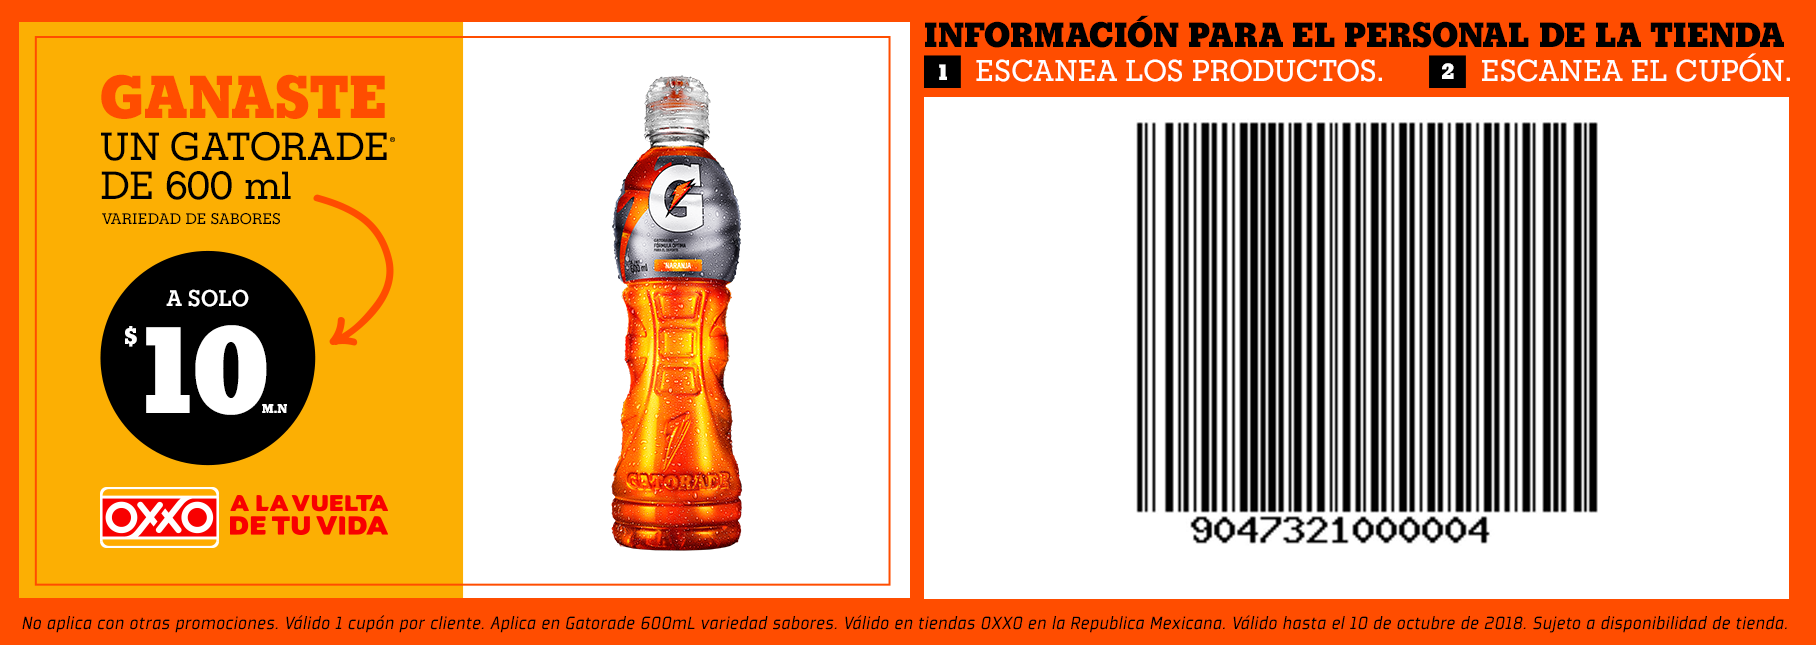
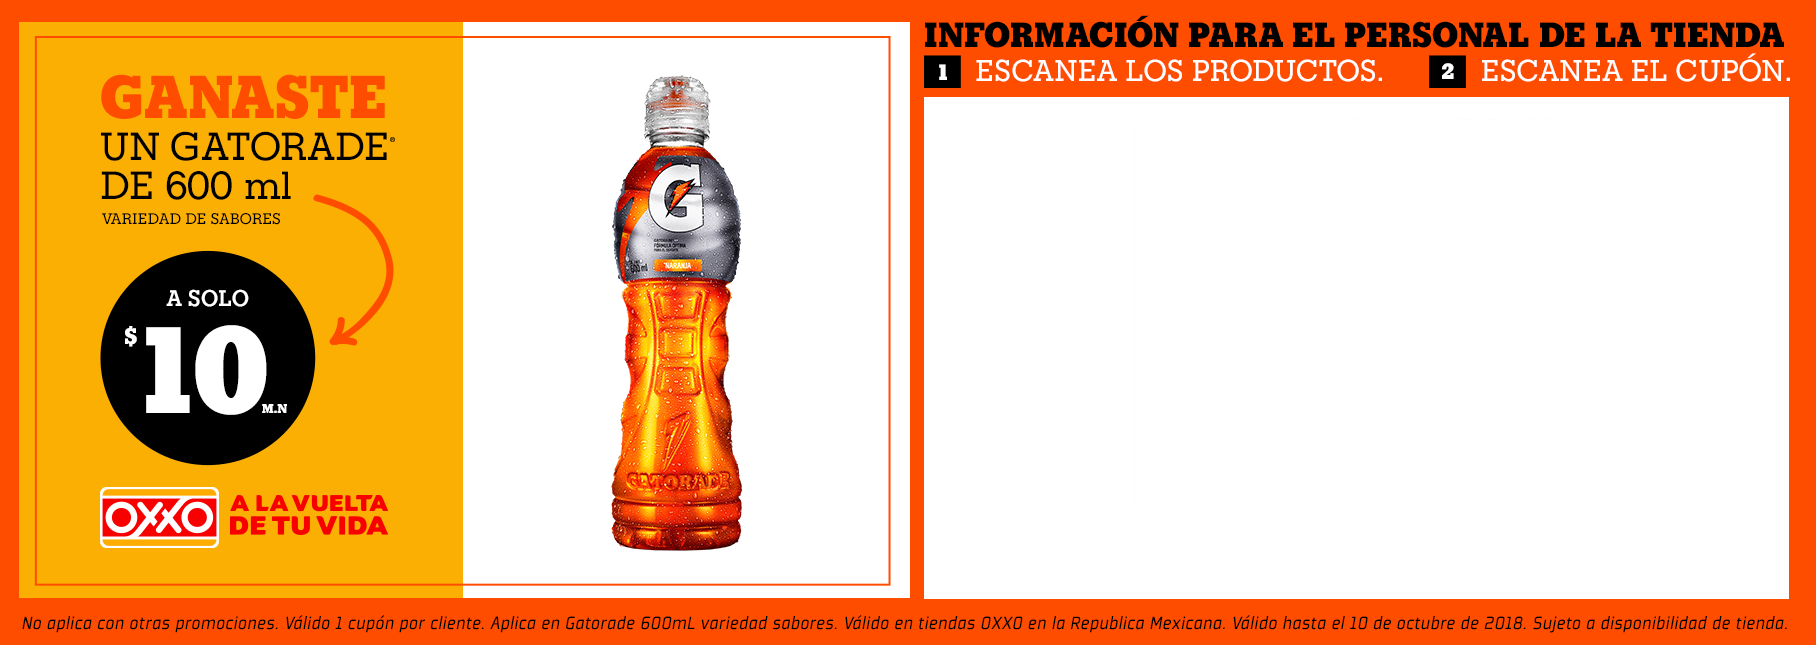
FuncionalGeneraImg

Changed region(s): [[0.6167, 0.186, 0.8943, 0.8682]]

diff --git a/fun/lib/barcode.php b/fun/lib/barcode.php
@@ -1,5 +1,6 @@
 <?php
 
+
 $filepath = (isset($_GET["filepath"])?$_GET["filepath"]:"");
 $text = (isset($_GET["text"])?$_GET["text"]:"0");
 $size = (isset($_GET["size"])?$_GET["size"]:"20");
@@ -7,10 +8,12 @@ $orientation = (isset($_GET["orientation"])?$_GET["orientation"]:"horizontal");
 $code_type = (isset($_GET["codetype"])?$_GET["codetype"]:"code128");
 $print = (isset($_GET["print"])&&$_GET["print"]=='true'?true:false);
 $sizefactor = (isset($_GET["sizefactor"])?$_GET["sizefactor"]:"1");
+$ismob = (isset($_GET["ismob"])&&$_GET["ismob"]=='true'?true:false);
 
-barcode( $filepath, $text, $size, $orientation, $code_type, $print, $sizefactor );
+//barcode( $filepath, $text, $size, $orientation, $code_type, $print, $sizefactor,$ismob );
 
-function barcode( $filepath="", $text="0", $size="20", $orientation="horizontal", $code_type="code128", $print=false, $SizeFactor=1 ) {
+
+function barcode( $filepath="", $text="0", $size="20", $orientation="horizontal", $code_type="code128", $print=false, $SizeFactor=1,$ismob=false ) {
 	$code_string = "";
 
 	if ( in_array(strtolower($code_type), array("code128", "code128b")) ) {
@@ -115,10 +118,11 @@ function barcode( $filepath="", $text="0", $size="20", $orientation="horizontal"
 	$white = imagecolorallocate ($image, 255, 255, 255);
 
 	imagefill( $image, 0, 0, $white );
-	if ( $print ) {
-		//imagestring($image,5, 225, $img_height, $text, $black );
-		imagettftext ($image ,36 , 0 , 128 , $img_height , $black , "../font/g-black.ttf" , $text );
-	}
+			if ( $print ) {
+				//imagestring($image,5, 225, $img_height, $text, $black );
+				imagettftext ($image ,36 , 0 , 118 , $img_height , $black ,"./font/g-black.ttf" , $text );
+			}
+
 
 	$location = 10;
 	for ( $position = 1 ; $position <= strlen($code_string); $position++ ) {
@@ -133,29 +137,35 @@ function barcode( $filepath="", $text="0", $size="20", $orientation="horizontal"
 	}
 
 	// Draw barcode to the screen or save in a file
-	$filepath='../img/'.$text.'.png';
-	if ( $filepath=="" ) {
-		header ('Content-type: image/png');
-		imagepng($image);
-		imagedestroy($image);
-	} else {
-		imagepng($image,$filepath);
-		imagedestroy($image);
-	}
-	encimar($text);
-}
-function encimar($nombre)
-{
-	$stamp = imagecreatefrompng('../img/'.$nombre.'.png');
-  $im = imagecreatefrompng('../img/promoDesk.png');
-  $marge_right = 162;
-  $marge_bottom = 48;
-  $sx = imagesx($stamp);
-  $sy = imagesy($stamp);
-  imagecopy($im, $stamp, imagesx($im) - $sx - $marge_right, imagesy($im) - $sy - $marge_bottom, 0, 0, imagesx($stamp), imagesy($stamp));
-  header('Content-type: image/phg');
-  imagepng($im);
-  imagedestroy($im);
-}
+		//imagepng($image,$filepath);
+		//
+		//$stamp = imagecreatefrompng('./img/'.$nombre.'mob.png');
+		$im = imagecreatefrompng('./img/promoMob.png');
+		$marge_right = 180;
+		$marge_bottom = 160;
+		$sx = imagesx($image);
+		$sy = imagesy($image);
+		imagecopy($im, $image, imagesx($im) - $sx - $marge_right, imagesy($im) - $sy - $marge_bottom, 0, 0, imagesx($image), imagesy($image));
+		$newfilemob='./img/promoMob'.$text.'.png';
+		imagepng($im,$newfilemob);
 
+
+		//$stamp = imagecreatefrompng('./img/'.$nombre.'.png');
+		$im2 = imagecreatefrompng('./img/promoDesk.png');
+		$marge_right2 = 162;
+		$marge_bottom2 = 48;
+		$sx2 = imagesx($image);
+		$sy2 = imagesy($image);
+		imagecopy($im2, $image, imagesx($im2) - $sx2 - $marge_right2, imagesy($im2) - $sy2 - $marge_bottom2, 0, 0, imagesx($image), imagesy($image));
+		$newfile='./img/promo'.$text.'.png';
+		imagepng($im2,$newfile);
+		//imagedestroy($im);
+		//return $newfilemob;
+		//header('Content-type: image/phg');
+		//imagepng($im);
+		imagedestroy($im2);
+		 imagedestroy($im);
+		 imagedestroy($image);
+
+}
 ?>

diff --git a/fun/respuesta.php b/fun/respuesta.php
@@ -1,6 +1,7 @@
 <?php ob_start("comprimir_pagina");?>
 <?php
     require_once('lib/db.php');
+    require_once('lib/barcode.php');
     $htmlresult='';
     if (!empty($_SERVER['HTTP_CLIENT_IP'])) {
          $ip = $_SERVER['HTTP_CLIENT_IP'];
@@ -11,7 +12,7 @@
      }
      $idClient = $_POST['codigo'];
      $idprom=$_POST['promo'];
-     $findip=getpromoestado($ip,$promo);
+     $findip=getpromoestado($ip,$idprom);
      if(mysql_num_rows($findip)>0)
      {
        while($datos1 = mysql_fetch_array($findip)) {
@@ -22,7 +23,18 @@
                 while($datos = mysql_fetch_array($result)) {
                   if($datos['codigo']!='')
                   {
-                    echo '<img src="lib/barcode.php?text='.$datos['codigo'].'&size=450&orientation=horizontal&codetype=Code128&print=true&sizefactor=3"/><br/>'; 
+                    $filepath = "";
+                    $text ="".$datos['codigo']."";
+                    $size = "450";
+                    $orientation = "horizontal";
+                    $code_type = "code128";
+                    $print = true;
+                    $sizefactor = "3";
+                    $ismob = true;
+
+                    barcode( $filepath, $text, $size, $orientation, $code_type, $print, $sizefactor,$ismob);
+
+                    echo '<img src="img/promoMob'.$datos['codigo'].'.png"/><br/><br/><br/><br/><br/><img src="img/promo'.$datos['codigo'].'.png"/><a href="img/promoMob'.$datos['codigo'].'.png" download>Descargar</a>';
                     update_codigos($datos['codigo'],$ip,$idClient);
                   }
                   else

diff --git a/fun/lib/db.php b/fun/lib/db.php
@@ -80,6 +80,39 @@ function getpromoestado($ip,$promo)
 
 
 }
+function getpromoestadotest($ip,$promo)
+{
+    $query1 = "SELECT * from gtrd_promociones_estados where id_promo=".$promo.";";
+	 $result1 = mysql_query($query1);
+	if($result1)
+	{
+        $salida          = 0;
+        $country_code    = '';
+        $ip_address      = $ip;
+        $country_name         = 'Local';
+        $country_city    = '';
+        $country_region  = '';
+        $estado='';
+        //$salida = get_country_local($country_code,$ip_address,$lang,$country_name,$id_group); // busqueda en BD local
+        //if ($salida==0) {
+        $salida = get_country_api($country_code,$ip_address,$country_region); // busqueda en api de google
+        $estado=$country_region;//equivalencia_estados_api($country_code,$region);
+
+        if($salida==0)//$query2 = "SELECT * from gtrd_promociones_estados where id_promo=".$promo." and estado='".$estado."' and  pais='".$country_code."';";
+        {
+          return "Ocurrio error al obtener estado";
+        }
+        else {
+          return "LA ip es: ".$ip_address." el Estado es:".$estado;
+        }
+
+	}
+  else {
+        return "No entro el resultado query Ocurrio error al obtener estado ".$query1;// code...
+  }
+
+
+}
 function update_codigos($codigo,$client,$idClient)
 {
 	$query ="UPDATE  gtrd_cupones SET estatus = 1,ip='".$client."',huella_digital='".$idClient."',fecha_entregado=NOW() WHERE codigo = '".$codigo."'";
